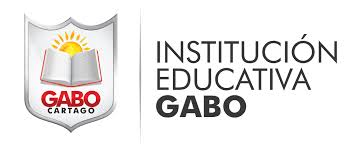
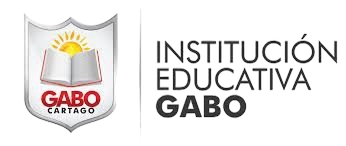
17/5/25

diff --git a/templates/users/admin.html b/templates/users/admin.html
@@ -12,7 +12,7 @@
     <meta name="description" content="Página de administración votaciones Gabo">
     <meta name="robots" content="noindex, nofollow">
 </head>
-<body>
+<body> 
     <aside class="sidebar">
         <form class="sidebar__form">
             <input type="checkbox" id="open-menu">
@@ -23,25 +23,25 @@
             <ul>
                 <li class="sidebar__item">
                     <label for="create-subuser" class="sidebar__item-link create-subuser-label">
-                        <span class="material-symbols-outlined">add</span>
+                        <span class="material-symbols-outlined">person_add</span>
                         <p>Crear Usuario</p>
                     </label>
                 </li>
                 <li class="sidebar__item">
                     <label for="create-candidate" class="sidebar__item-link create-candidate-label">
-                        <span class="material-symbols-outlined">delete</span>
+                        <span class="material-symbols-outlined">how_to_reg</span>
                         <p>Crear Candidato</p>
                     </label>
                 </li>
                 <li class="sidebar__item">
                     <a href="{% url 'admin_votes' %}" class="sidebar__item-link">
-                        <span class="material-symbols-outlined">partner_exchange</span>
+                        <span class="material-symbols-outlined">ballot</span>
                         <p>Resultados</p>
                     </a>
                 </li>
                 <li class="sidebar__item">
                     <label for="reset-dialog" class="sidebar__item-link open-dialog">
-                        <span class="material-symbols-outlined">groups</span>
+                        <span class="material-symbols-outlined">restart_alt</span>
                         <p>Resetear votaciones</p>
                     </label>
                 </li>
@@ -67,8 +67,8 @@
     <main>
         <div class="filter-bar container"> 
             <div class="filter-bar__filter-container row">
-                <div class="filter-bar__logo-container col-md-5 col-0">
-                    <img src="{%static '/IMAGES/IEgabo.webp'%}" alt="logo" class="logo">
+                <div class="filter-bar__logo-container">
+                    <img src="{%static '/IMAGES/IEgabo.webp'%}" alt="Logo Gabo" class="logo">
                 </div>
             </div>
         </div>

diff --git a/Users/static/CSS/adminStyles.css b/Users/static/CSS/adminStyles.css
@@ -6,7 +6,7 @@ body, div, ul, li, a, h1, h2, h3, h4, p {
     margin: 0;
     padding: 0;
 }
-
+ 
 label, .sidebar__nav {
     user-select: none;
 }
@@ -82,6 +82,10 @@ body {
 .sidebar__item-link:hover {
     background-color: var(--bg-color);
     border-radius: 36px 0 0 36px;
+}
+
+.sidebar__item-link:nth-child(5):hover {
+    background-color: var(--sidebar-color);
 }
 
 .sidebar__item-link::before, .sidebar__item-link::after {
@@ -278,41 +282,18 @@ aside:has(input[type="checkbox"]:checked) ~ main {
     color: #D2B48C;
 }
 
-.filter-bar__z-a {
-    transform: rotate(180deg);
-}
-
-.filter-bar__filter-container > .filter-bar__name {
-    display: flex;
-    flex-direction: row;
-    align-items: center;
-}
-
-.filter-bar__name > input {
-    height: auto;
-}
-
-.filter-bar__name > input[type="text"] {
-    width: 80%;
-    outline: none;
-}
-
-.filter-bar__name > input[type="submit"] {
-    width: 20%;
-}
-
 .filter-bar__filter-container > .filter-bar__logo-container {
     height: 100%;
     display: flex;
     justify-content: end;
     align-items: center;
-    padding-right: .75rem;
+    padding-right: 0;
 }
 
 .logo {
     height: clamp(15px, calc(10dvh - 5px), 75px);
     width: clamp(42px, calc(28dvh - 5px), 210px);
-    margin: 2.5px 0;
+    background-color: #fff;
 }
  
 .close-formSubuser, .close-formCandidate {

diff --git a/templates/users/main.html b/templates/users/main.html
@@ -60,7 +60,7 @@
                                 </select>
                                 <label for="email" class="form-label">Correo electrónico</label>
                               </div>
-                            </div>
+                            </div> 
                             <div class="col-12">
                               <div class="d-grid">
                                 <button class="btn btn-dark btn-lg" type="submit">Votar</button>
